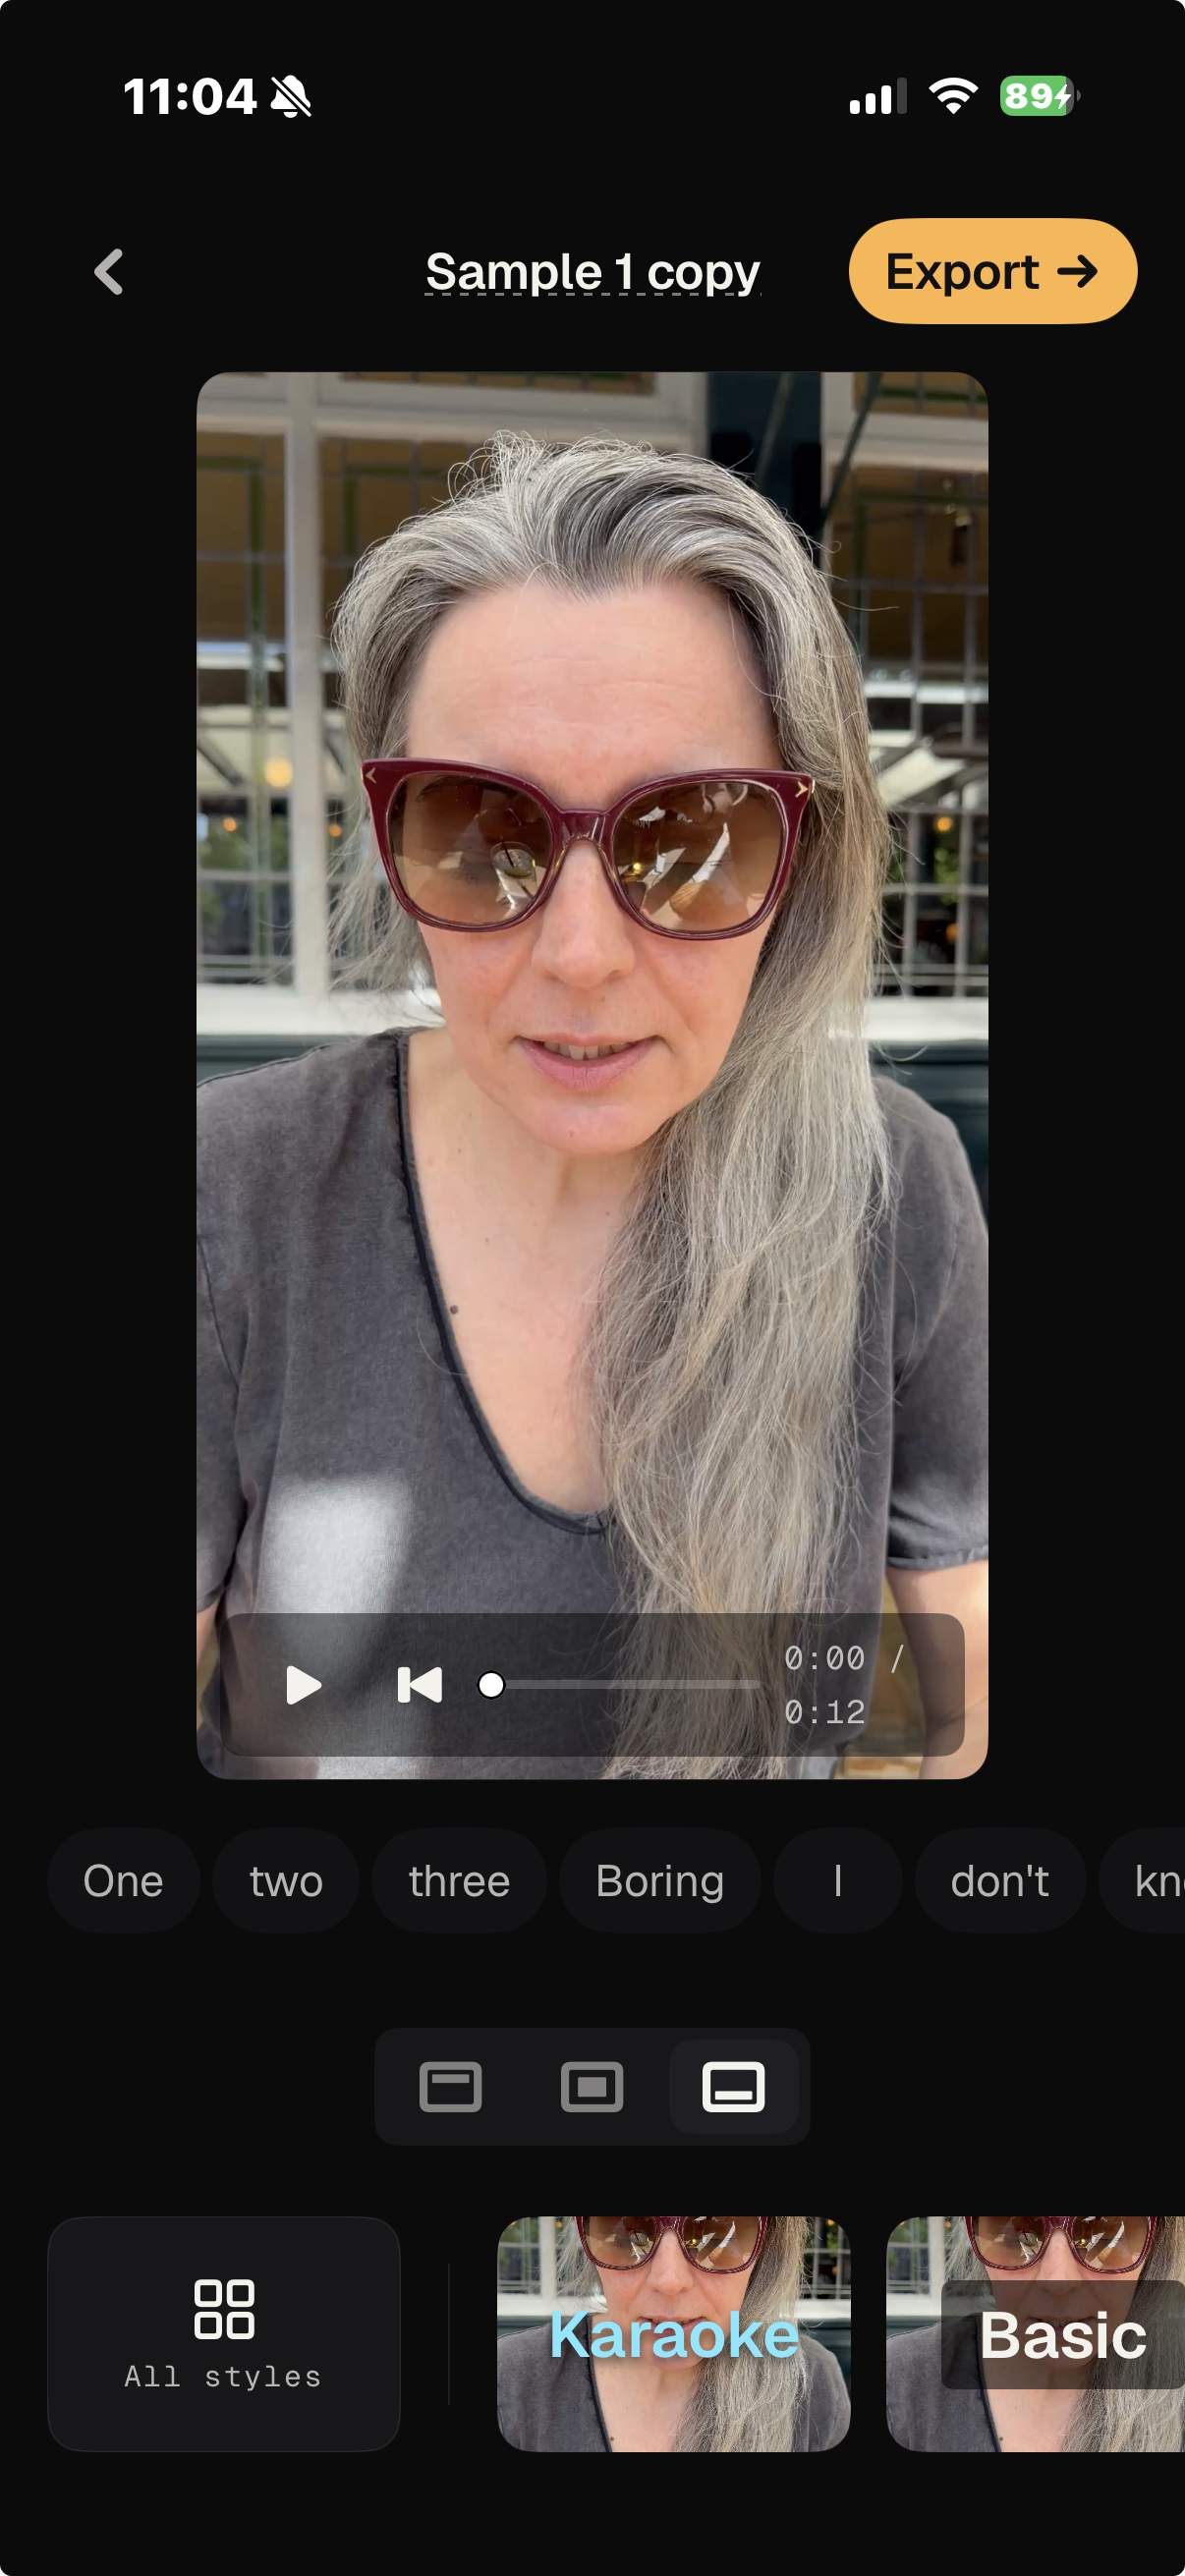
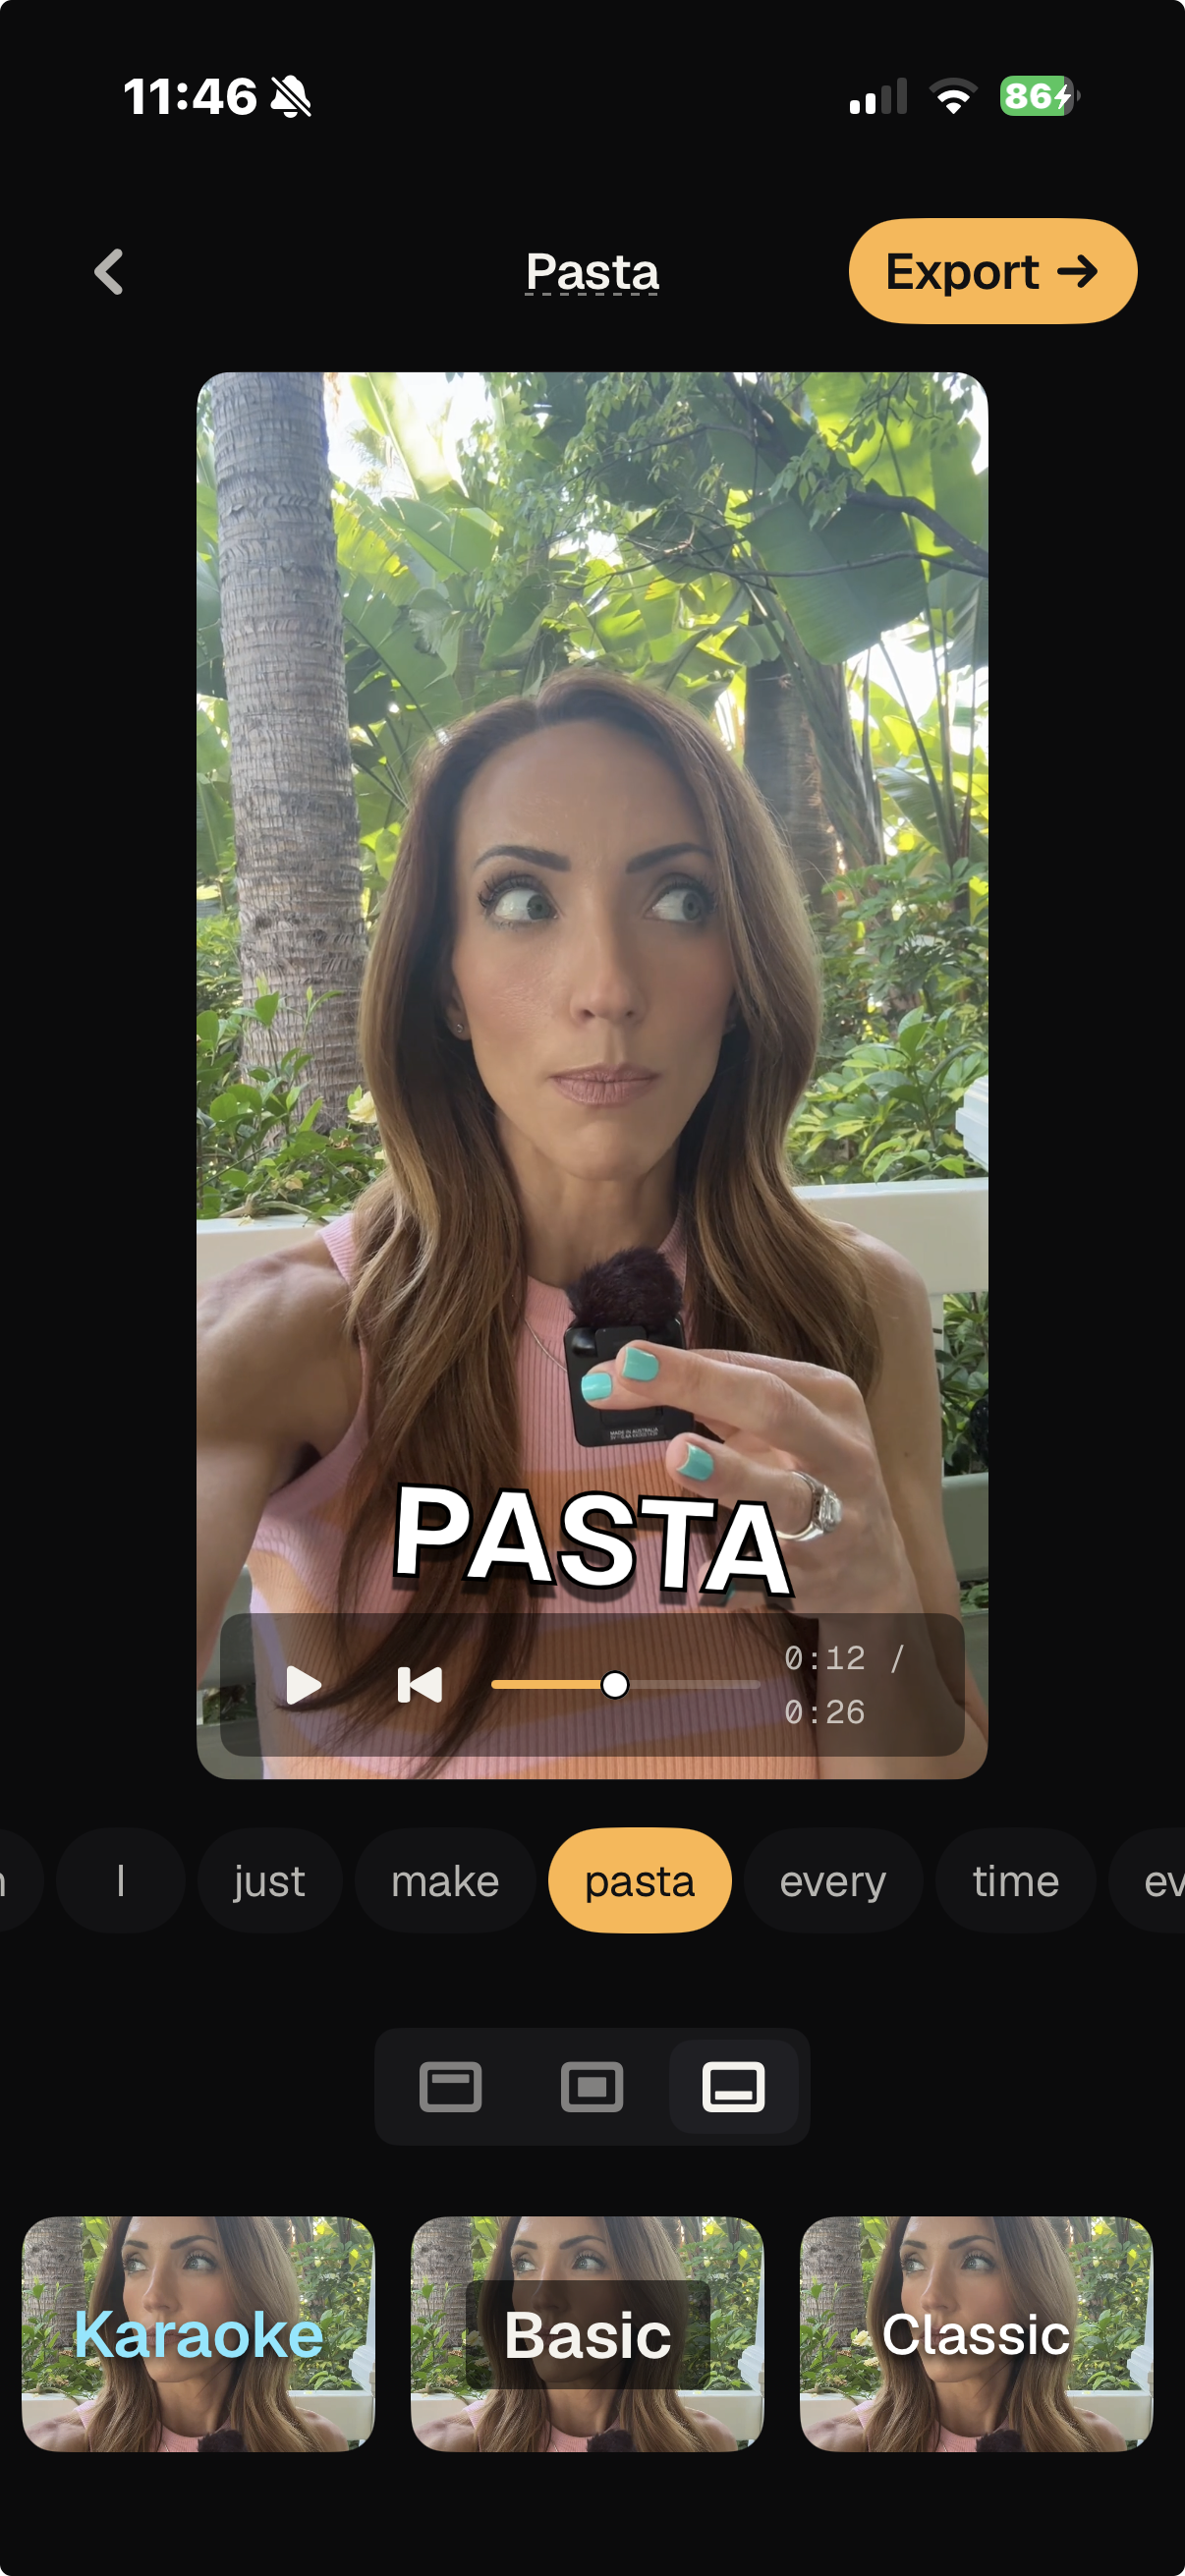
💄 Apple's official App Store badge + Pasta-demo screenshot
- Drop Apple's official "Download on the App Store" SVG asset
  (appstore-badge.svg) and switch the two badge slots in index.html
  to <img> references instead of the inline hand-rolled SVG.
- Replace the editor screenshot with the Pasta demo mid-playback
  (caption rendered, style strip + position toggle visible).

diff --git a/index.html b/index.html
@@ -59,15 +59,7 @@
                Inlined as SVG so it scales and works offline; sized to Apple's
                recommended minimums. -->
           <a class="appstore-badge" href="https://apps.apple.com/app/id6768448442" aria-label="Download Sound Off on the App Store">
-            <svg xmlns="http://www.w3.org/2000/svg" viewBox="0 0 162 54" width="162" height="54" role="img" aria-hidden="true" focusable="false">
-              <rect width="162" height="54" rx="9" fill="#000"/>
-              <rect x="0.5" y="0.5" width="161" height="53" rx="8.5" fill="none" stroke="#A6A6A6" stroke-width="1"/>
-              <!-- Apple logo -->
-              <path fill="#fff" d="M27.6 28.3c0-2.6 2.1-3.9 2.2-3.9-1.2-1.7-3.1-2-3.7-2-1.6-.2-3 .9-3.8.9-.8 0-2-.9-3.3-.9-1.7 0-3.3 1-4.2 2.5-1.8 3.1-.5 7.7 1.3 10.3.9 1.2 1.9 2.6 3.2 2.5 1.3-.1 1.8-.8 3.4-.8 1.6 0 2 .8 3.4.8 1.4 0 2.3-1.2 3.2-2.5.7-.9 1.2-1.9 1.5-3-1 0-3.2-1.4-3.2-3.9zm-2.5-7.2c.7-.8 1.2-2 1-3.2-1 .1-2.3.7-3 1.5-.6.7-1.2 1.9-1.1 3.1 1.2.1 2.4-.6 3.1-1.4z"/>
-              <!-- text -->
-              <text x="40" y="22" font-family="-apple-system, Helvetica, Arial, sans-serif" font-size="9" fill="#fff" letter-spacing="0.5">Download on the</text>
-              <text x="40" y="40" font-family="-apple-system, Helvetica, Arial, sans-serif" font-size="20" font-weight="600" fill="#fff" letter-spacing="-0.3">App Store</text>
-            </svg>
+            <img src="appstore-badge.svg" alt="Download on the App Store" width="162" height="54" />
           </a>
           <span class="hero-price">One-time purchase</span>
         </div>
@@ -134,13 +126,7 @@
         <p class="cta-sub">Free exports carry a small watermark. The one-time unlock removes it and opens the full caption style catalogue.</p>
         <div class="cta-row">
           <a class="appstore-badge" href="https://apps.apple.com/app/id6768448442" aria-label="Download Sound Off on the App Store">
-            <svg xmlns="http://www.w3.org/2000/svg" viewBox="0 0 162 54" width="162" height="54" role="img" aria-hidden="true" focusable="false">
-              <rect width="162" height="54" rx="9" fill="#000"/>
-              <rect x="0.5" y="0.5" width="161" height="53" rx="8.5" fill="none" stroke="#A6A6A6" stroke-width="1"/>
-              <path fill="#fff" d="M27.6 28.3c0-2.6 2.1-3.9 2.2-3.9-1.2-1.7-3.1-2-3.7-2-1.6-.2-3 .9-3.8.9-.8 0-2-.9-3.3-.9-1.7 0-3.3 1-4.2 2.5-1.8 3.1-.5 7.7 1.3 10.3.9 1.2 1.9 2.6 3.2 2.5 1.3-.1 1.8-.8 3.4-.8 1.6 0 2 .8 3.4.8 1.4 0 2.3-1.2 3.2-2.5.7-.9 1.2-1.9 1.5-3-1 0-3.2-1.4-3.2-3.9zm-2.5-7.2c.7-.8 1.2-2 1-3.2-1 .1-2.3.7-3 1.5-.6.7-1.2 1.9-1.1 3.1 1.2.1 2.4-.6 3.1-1.4z"/>
-              <text x="40" y="22" font-family="-apple-system, Helvetica, Arial, sans-serif" font-size="9" fill="#fff" letter-spacing="0.5">Download on the</text>
-              <text x="40" y="40" font-family="-apple-system, Helvetica, Arial, sans-serif" font-size="20" font-weight="600" fill="#fff" letter-spacing="-0.3">App Store</text>
-            </svg>
+            <img src="appstore-badge.svg" alt="Download on the App Store" width="162" height="54" />
           </a>
         </div>
       </div>